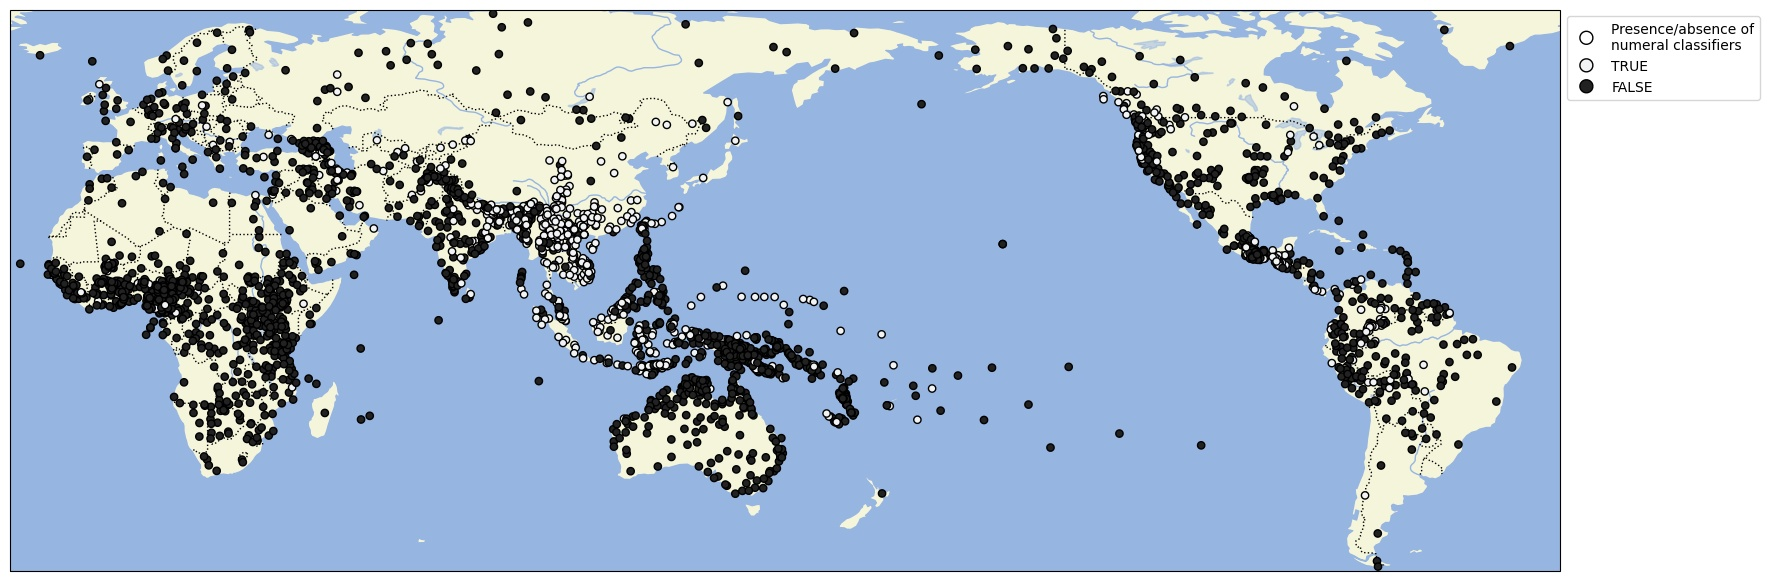
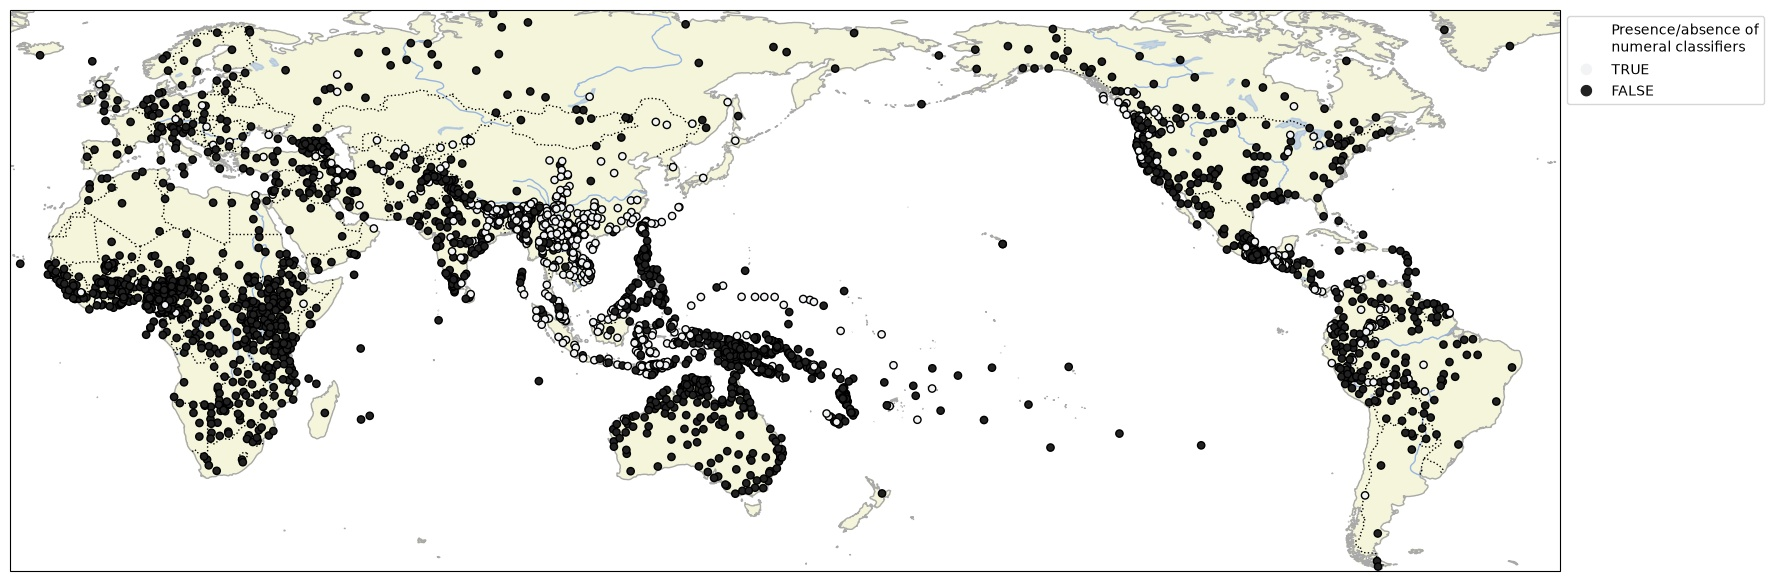
release v1.0.1

diff --git a/setup.py b/setup.py
@@ -16,6 +16,7 @@ setup(
     zip_safe=False,
     install_requires=[
         'cldfbench>=1.2.2',
+        'pyglottolog',
     ],
     extras_require={
         'test': [

diff --git a/cldf/README.md b/cldf/README.md
@@ -15,8 +15,8 @@ property | value
 [dc:identifier](http://purl.org/dc/terms/identifier) | https://wacl.clld.org
 [dc:license](http://purl.org/dc/terms/license) | https://creativecommons.org/licenses/by/4.0/
 [dcat:accessURL](http://www.w3.org/ns/dcat#accessURL) | https://github.com/cldf-datasets/wacl
-[prov:wasDerivedFrom](http://www.w3.org/ns/prov#wasDerivedFrom) | <ol><li><a href="https://github.com/cldf-datasets/wacl/tree/1e5ee5a">cldf-datasets/wacl 1e5ee5a</a></li><li><a href="https://github.com/glottolog/glottolog/tree/v4.6">Glottolog v4.6</a></li></ol>
-[prov:wasGeneratedBy](http://www.w3.org/ns/prov#wasGeneratedBy) | <ol><li><strong>python</strong>: 3.8.10</li><li><strong>python-packages</strong>: <a href="./requirements.txt">requirements.txt</a></li></ol>
+[prov:wasDerivedFrom](http://www.w3.org/ns/prov#wasDerivedFrom) | <ol><li><a href="https://github.com/cldf-datasets/wacl/tree/d86a373">cldf-datasets/wacl  v1.0.0-2-gd86a373</a></li><li><a href="https://github.com/glottolog/glottolog/tree/v5.3">Glottolog  v5.3</a></li></ol>
+[prov:wasGeneratedBy](http://www.w3.org/ns/prov#wasGeneratedBy) | <ol><li><strong>python</strong>: 3.12.3</li><li><strong>python-packages</strong>: <a href="./requirements.txt">requirements.txt</a></li></ol>
 [rdf:ID](http://www.w3.org/1999/02/22-rdf-syntax-ns#ID) | wacl
 [rdf:type](http://www.w3.org/1999/02/22-rdf-syntax-ns#type) | http://www.w3.org/ns/dcat#Distribution
 
@@ -33,7 +33,7 @@ property | value
 
 Name/Property | Datatype | Description
  --- | --- | --- 
-[ID](http://cldf.clld.org/v1.0/terms.rdf#id) | `string` | Primary key
+[ID](http://cldf.clld.org/v1.0/terms.rdf#id) | `string`<br>Regex: `[a-zA-Z0-9_\-]+` | Primary key
 [Language_ID](http://cldf.clld.org/v1.0/terms.rdf#languageReference) | `string` | References [languages.csv::ID](#table-languagescsv)
 [Parameter_ID](http://cldf.clld.org/v1.0/terms.rdf#parameterReference) | `string` | References [parameters.csv::ID](#table-parameterscsv)
 [Value](http://cldf.clld.org/v1.0/terms.rdf#value) | `string` | 
@@ -53,9 +53,10 @@ property | value
 
 Name/Property | Datatype | Description
  --- | --- | --- 
-[ID](http://cldf.clld.org/v1.0/terms.rdf#id) | `string` | Primary key
+[ID](http://cldf.clld.org/v1.0/terms.rdf#id) | `string`<br>Regex: `[a-zA-Z0-9_\-]+` | Primary key
 [Name](http://cldf.clld.org/v1.0/terms.rdf#name) | `string` | 
 [Description](http://cldf.clld.org/v1.0/terms.rdf#description) | `string` | 
+[ColumnSpec](http://cldf.clld.org/v1.0/terms.rdf#columnSpec) | `json` | 
 
 ## <a name="table-languagescsv"></a>Table [languages.csv](./languages.csv)
 
@@ -69,13 +70,13 @@ property | value
 
 Name/Property | Datatype | Description
  --- | --- | --- 
-[ID](http://cldf.clld.org/v1.0/terms.rdf#id) | `string` | Primary key
+[ID](http://cldf.clld.org/v1.0/terms.rdf#id) | `string`<br>Regex: `[a-zA-Z0-9_\-]+` | Primary key
 [Name](http://cldf.clld.org/v1.0/terms.rdf#name) | `string` | 
 [Macroarea](http://cldf.clld.org/v1.0/terms.rdf#macroarea) | `string` | 
-[Latitude](http://cldf.clld.org/v1.0/terms.rdf#latitude) | `decimal` | 
-[Longitude](http://cldf.clld.org/v1.0/terms.rdf#longitude) | `decimal` | 
-[Glottocode](http://cldf.clld.org/v1.0/terms.rdf#glottocode) | `string` | 
-[ISO639P3code](http://cldf.clld.org/v1.0/terms.rdf#iso639P3code) | `string` | 
+[Latitude](http://cldf.clld.org/v1.0/terms.rdf#latitude) | `decimal`<br>&ge; -90<br>&le; 90 | 
+[Longitude](http://cldf.clld.org/v1.0/terms.rdf#longitude) | `decimal`<br>&ge; -180<br>&le; 180 | 
+[Glottocode](http://cldf.clld.org/v1.0/terms.rdf#glottocode) | `string`<br>Regex: `[a-z0-9]{4}[1-9][0-9]{3}` | 
+[ISO639P3code](http://cldf.clld.org/v1.0/terms.rdf#iso639P3code) | `string`<br>Regex: `[a-z]{3}` | 
 `Continent` | `string` | 
 
 ## <a name="table-codescsv"></a>Table [codes.csv](./codes.csv)
@@ -90,8 +91,7 @@ property | value
 
 Name/Property | Datatype | Description
  --- | --- | --- 
-[ID](http://cldf.clld.org/v1.0/terms.rdf#id) | `string` | Primary key
+[ID](http://cldf.clld.org/v1.0/terms.rdf#id) | `string`<br>Regex: `[a-zA-Z0-9_\-]+` | Primary key
 [Parameter_ID](http://cldf.clld.org/v1.0/terms.rdf#parameterReference) | `string` | The parameter or variable the code belongs to.<br>References [parameters.csv::ID](#table-parameterscsv)
 [Name](http://cldf.clld.org/v1.0/terms.rdf#name) | `string` | 
 [Description](http://cldf.clld.org/v1.0/terms.rdf#description) | `string` | 
-

diff --git a/RELEASING.md b/RELEASING.md
@@ -2,11 +2,13 @@
 
 - Make sure dependencies are met:
   ```shell
+  git clone https://github.com/cldf-datasets/wacl wacl-cldf
+  cd wacl-cldf
   pip install -e .[test]
   ```
 - Recreate the CLDF data:
   ```shell
-  cldfbench makecldf --with-zenodo --with-cldfreadme --glottolog-version v4.6 cldfbench_wacl.py
+  cldfbench makecldf --with-zenodo --with-cldfreadme --glottolog-version v5.3 cldfbench_wacl.py
   ```
 - Validate the data:
   ```shell
@@ -14,6 +16,7 @@
   ```
 - Recreate README.md
   ```shell
+  pip install cldfviz[cartopy]
   cldfbench readme cldfbench_wacl.py
   ```
 - create the release commit:
